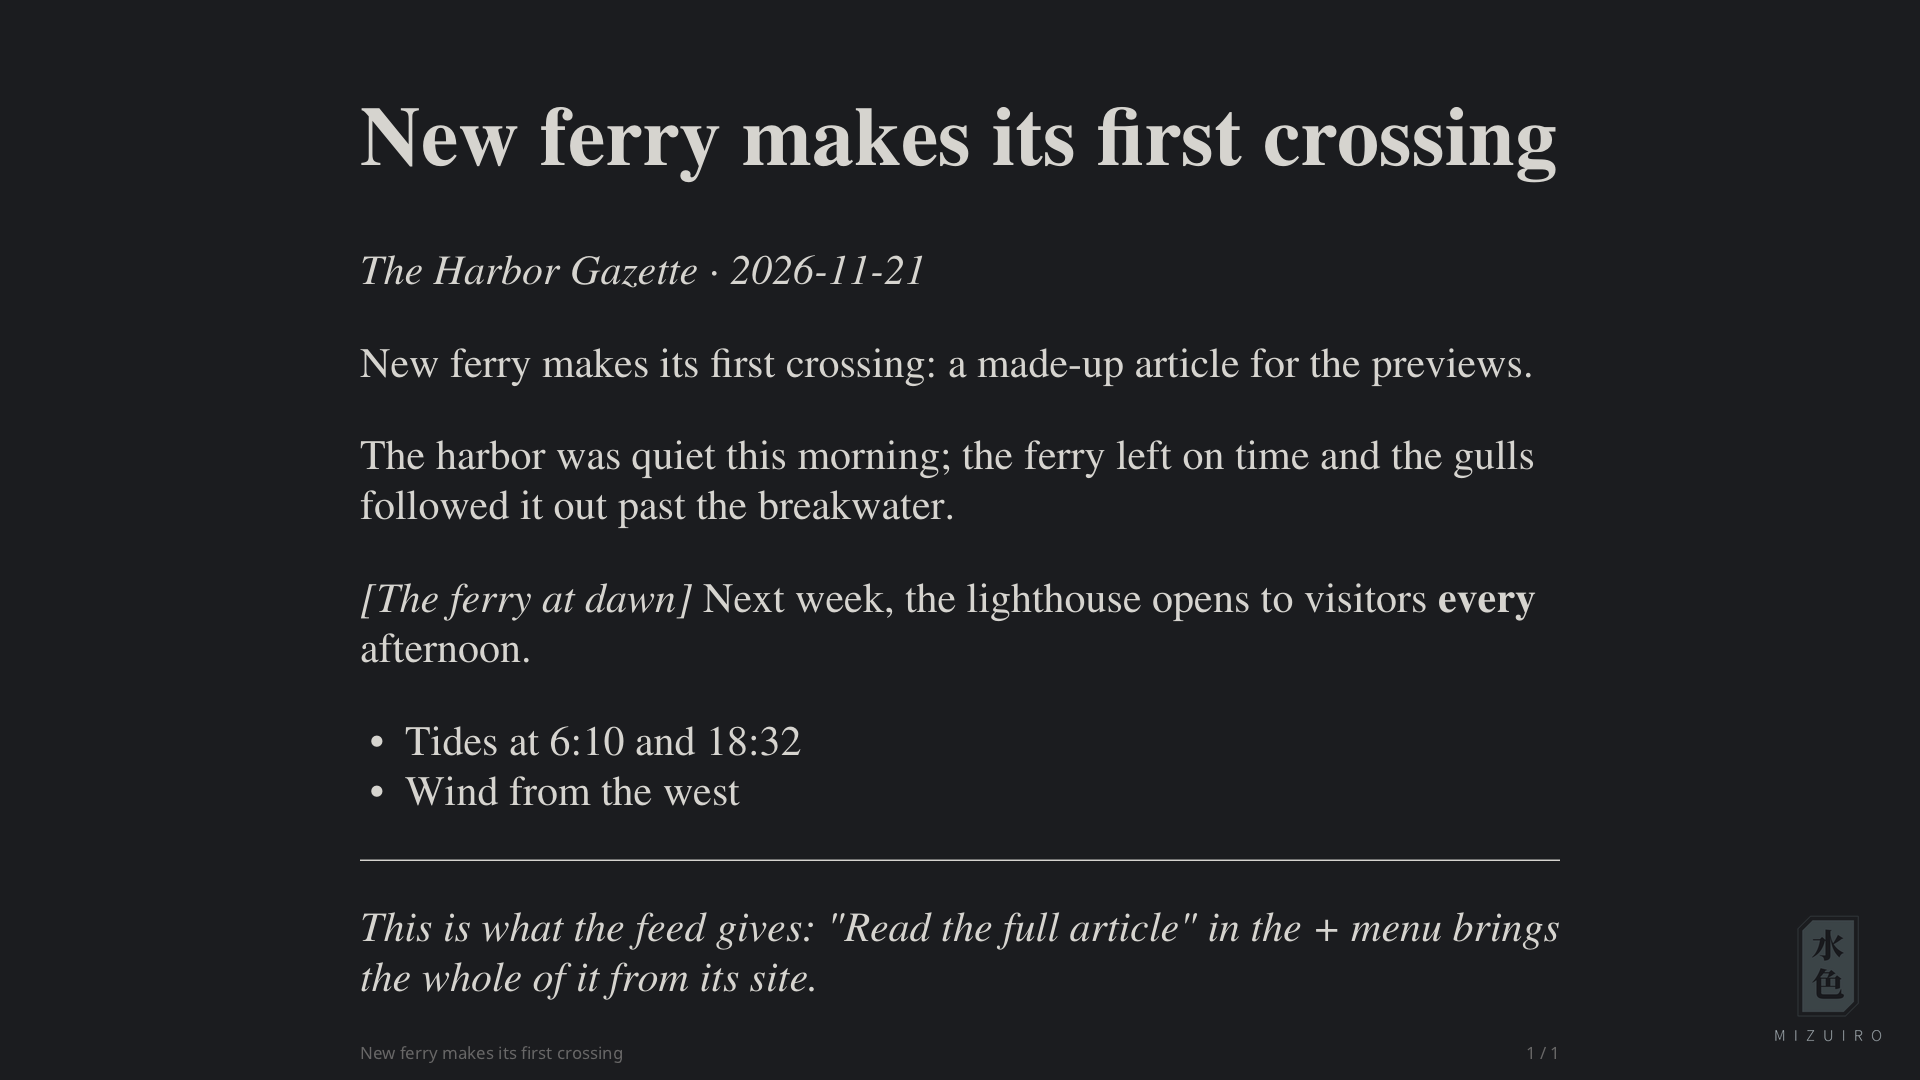
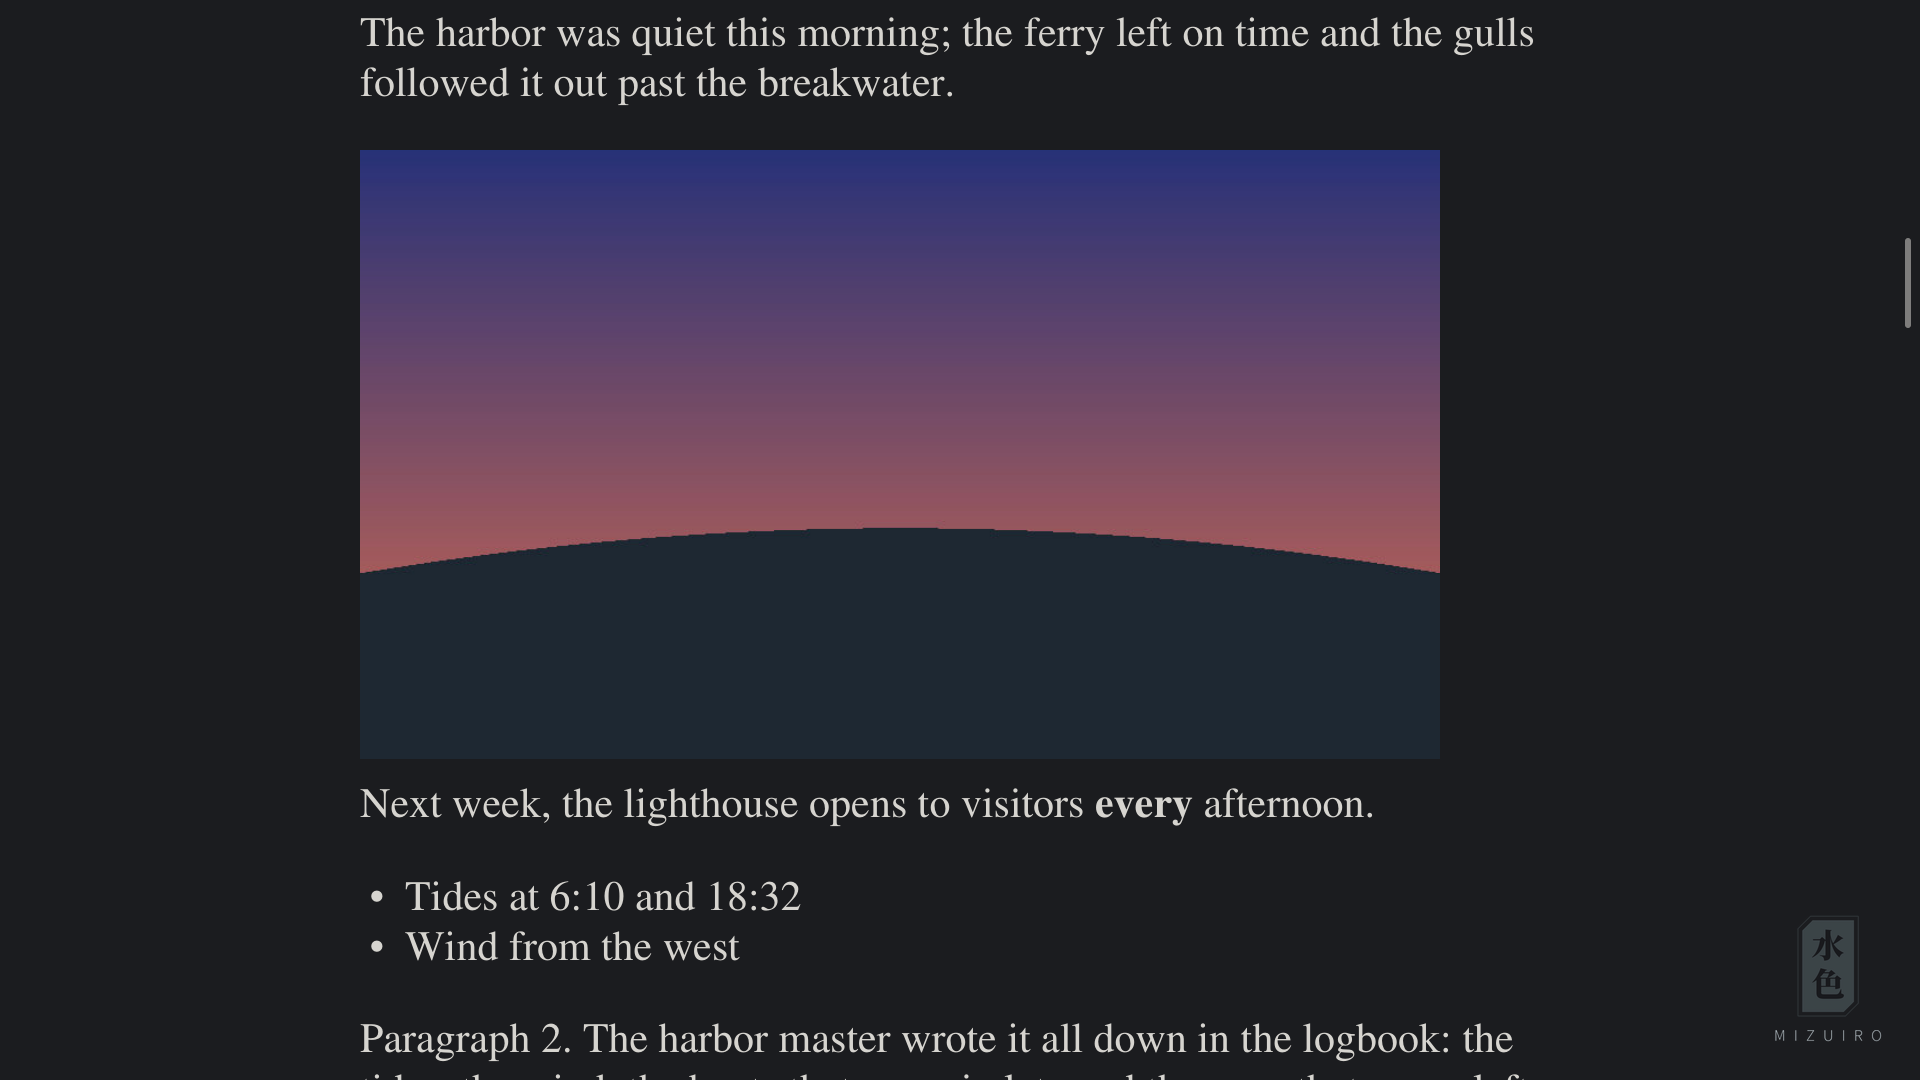
docs: news: the front page and pictures in articles; screenshots; status

diff --git a/docs/features.md b/docs/features.md
@@ -91,10 +91,14 @@ How the accounts are kept on the card: [Security](security.md).
   another language's), so nothing long has to be typed: **A** follows one,
   and it says "Followed" from then on. None is followed until you pick it.
   The list is `source/feedsuggest.c`.
-- **The library**: every feed's articles, newest first, with the feed's name
-  and the date; **L**/**R** show one feed alone, or all of them again. An
-  article you haven't opened wears a dot (a "New" in the list view). Its
-  picture, when the feed gives one, is its cover.
+- **A front page**, as KaiVideo's Showcase: the newest story large across the
+  top (its picture, feed, when it came, headline and first lines), then rows
+  of wide cards (picture, headline, feed, "2 h ago"). An article without a
+  picture gets a card in its feed's color with its first words. A dot marks
+  the ones not read yet. The D-pad and sticks move between stories, a finger
+  drags the page (it glides on), A or a tap opens one; **L**/**R** show one
+  feed alone, or all of them again. "Show as a list" in the + menu gives a
+  compact list instead (more headlines on screen, "New" on the unread).
 - **Checked** once a session, when you first go to the news, and with **Y**
   (or "Check the feeds again" in the + menu). The last 100 articles of each
   feed are kept on the card, so they're there offline too; a site that
@@ -108,8 +112,14 @@ How the accounts are kept on the card: [Security](security.md).
   books). What the feed gives is often only the
   start: **Read the full article** in the + menu brings the article's page
   from its site and keeps the part of it that reads as the article (it opens
-  that way from then on). Pictures inside articles show as their description,
-  or "[picture]".
+  that way from then on).
+- **Pictures in articles**: an article opens at once with its text, and its
+  pictures (up to 20) are fetched meanwhile ("Loading the pictures..."), made
+  no wider than the column and kept next to it on the card; they show in the
+  page as they come, where you're reading. A kind MuPDF can't read (WebP),
+  one too big (over 6 MB) or slow (20 s), or one that isn't there keeps its
+  description or "[picture]"; tiny ones (tracking pixels) are left out. They
+  go with the article's page after 30 days.
 - **+ menu**: Mark all as read (the articles shown), the next feed.
 - **Settings > News**: Add a feed, Suggested feeds, Import feeds (OPML), Feed (the one the rows
   under it are about), Rename this feed, Certificate check (off only for a
@@ -117,7 +127,7 @@ How the accounts are kept on the card: [Security](security.md).
 
 What the news can't do yet:
 
-- Pictures inside articles aren't downloaded (only the list's covers).
+- WebP and other kinds MuPDF can't read show as their description.
 - A feed that needs a sign-in can't be followed; adding a feed always checks
   its https certificate (turn the check off after, for a site of your own).
 - "Read the full article" is a best guess: on some sites it finds only part

diff --git a/FEEDS-STATUS.md b/FEEDS-STATUS.md
@@ -80,6 +80,19 @@ Branch `feat/feeds`, worktree `D:\ns2homebrew\kaireader-feeds`, from main at 2b0
   rows of that page (`docRenderStrip`) into the usual page cache. tests/test_doc.c checks a strip join
   is pixel-identical to the same rows rendered across it.
 
+## Front page and pictures (owner's requests)
+
+- The news library is a showcase (`ui_news.c`, layout in app.c `layoutShowcase`): the newest story
+  large (picture at the right, feed + "2 h ago", headline, first words), then rows of 16:9 cards (4
+  lying down, 2 upright); no picture: a card in the feed's color with its first words. Unread: a dot at
+  the picture's top right. List view kept ("Show as a list"). An article's genre now holds its date
+  and time (UTC) and its author_sort its first words (the showcase's).
+- Pictures in articles: article.c asks the app for each picture (up to 20): on the card (shown, as
+  `<itemhash>-<urlhash>.jpg` next to the page), left out (tiny), or its placeholder; the missing ones
+  are fetched by newsjob (6 MB, 20 s each, fitted to the column, saved as JPEG; failures marked
+  `.none`), then the page is made again and reopened where it's read. Whole pages are kept as
+  `<hash>-full.html` (address on line 1) so their pictures can be added too. 30-day cleanup includes them.
+
 ## Left
 
 - Console test by the owner, with `KaiReader-news-test.nro` ("KaiReader News test", built from this
